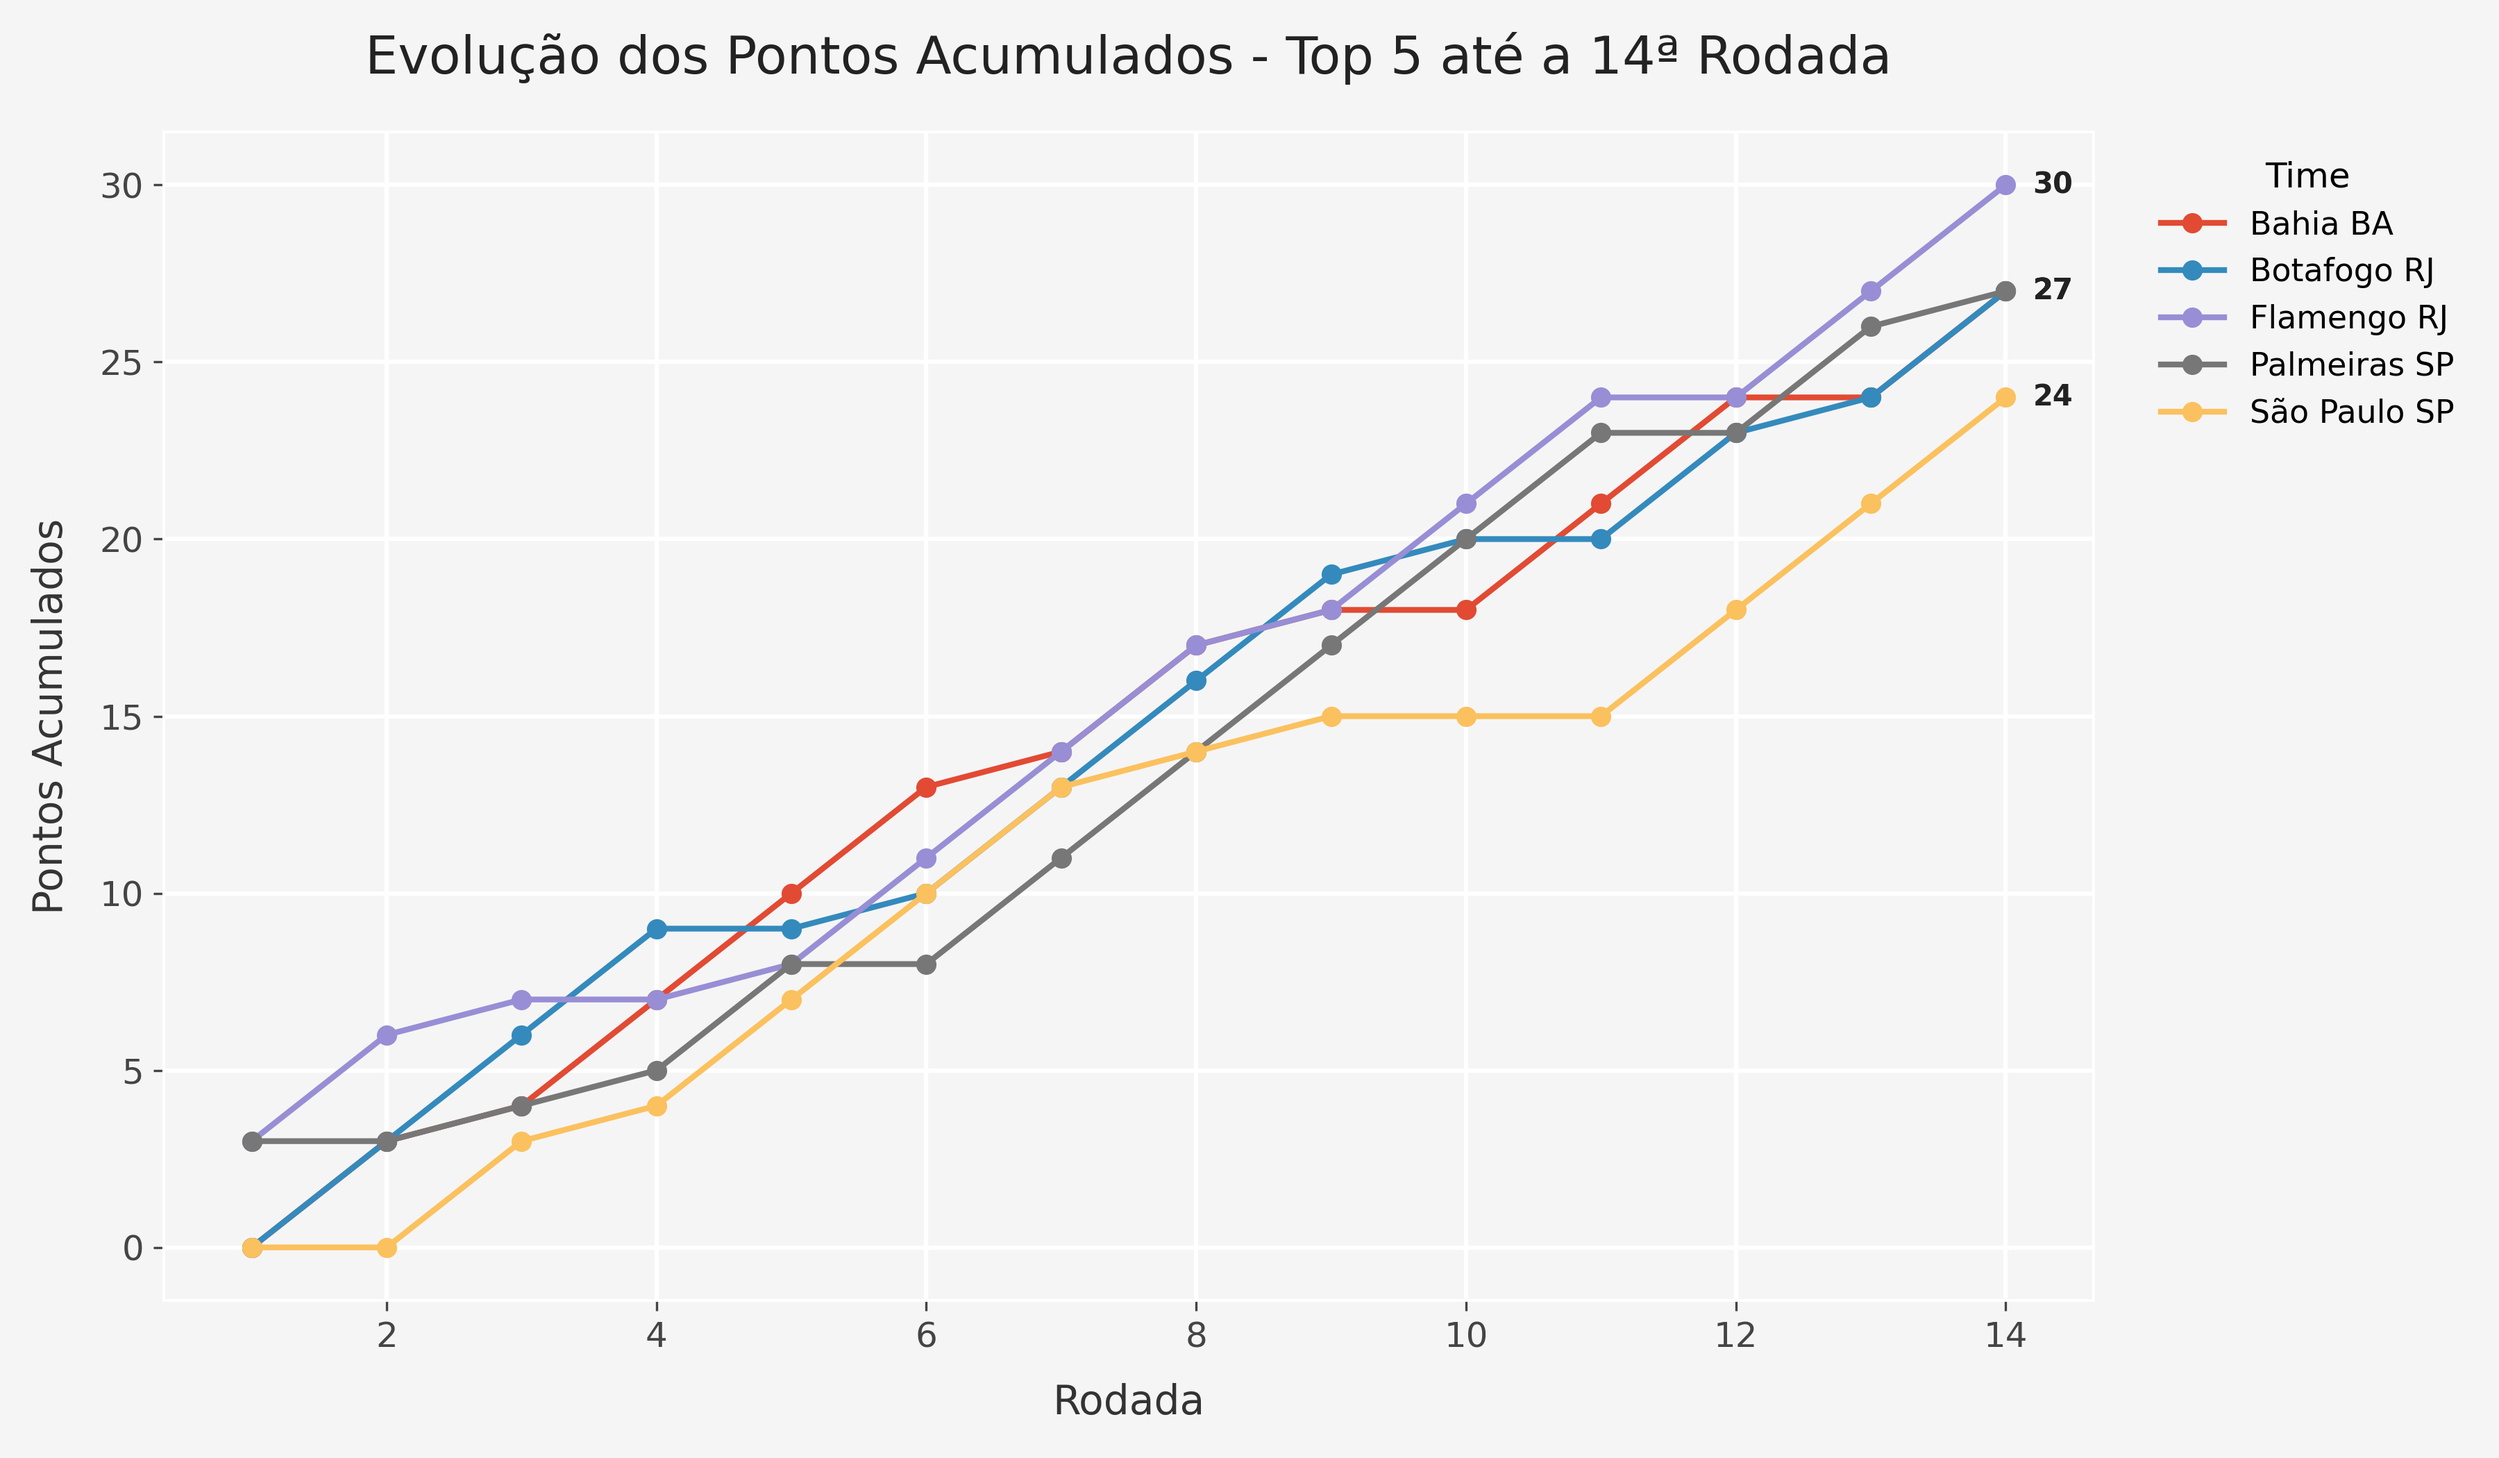
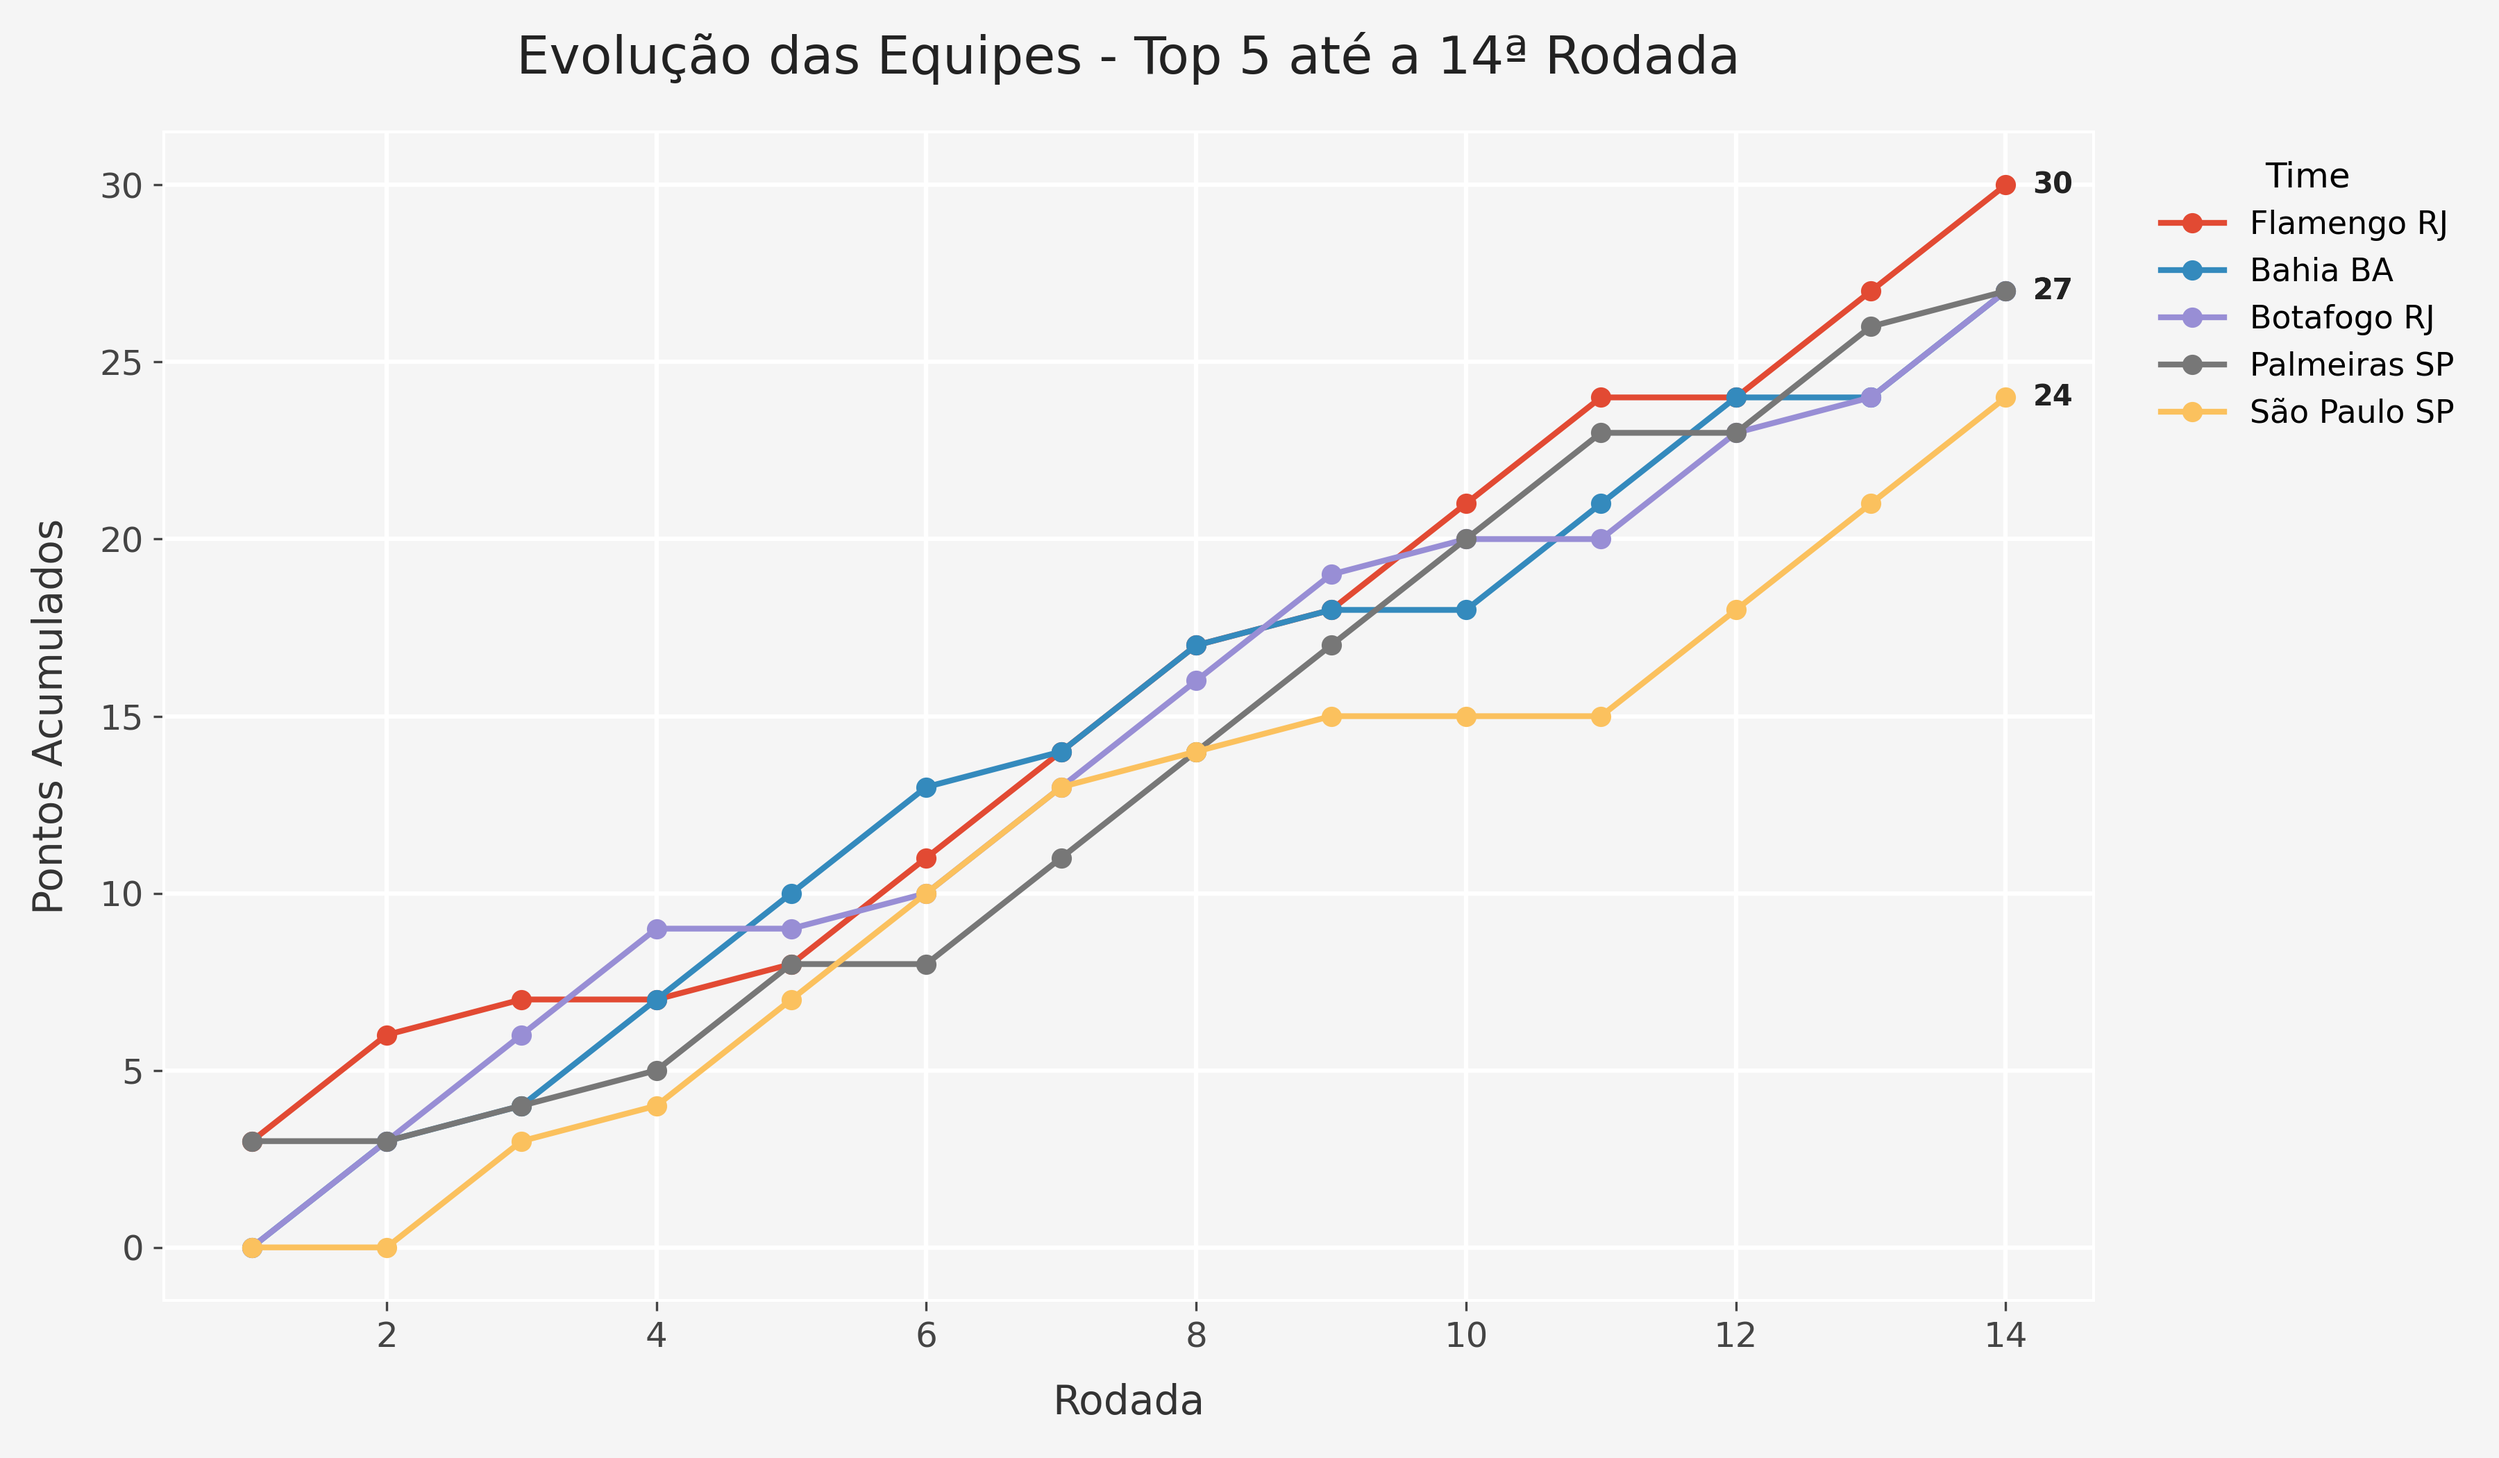
Completo analise para responder a primeira pergunta

diff --git a/ETL/graphs.py b/ETL/graphs.py
@@ -210,17 +210,115 @@ def pred_Winner(df_original, top5):
 
     return summary[['Time', 'PontosTotal', 'MediaPontos', 'PontosPrevistos', 'ProbabilidadeCampeao']]
 
-def plot_previsao(table):
-    plt.figure(figsize=(10, 6))
-    bars = plt.bar(table['Time'], table['PontosPrevistos'], color='dodgerblue')
+# def plot_previsao(table, limiar_campeao=75, jogos=14, total_rodadas=38, output_path="img/previsao_pontuacao.png"):
+#     """
+#     Plota a previsão de pontuação final para o Brasileirão 2024.
 
-    for bar in bars:
-        altura = bar.get_height()
-        plt.text(bar.get_x() + bar.get_width()/2, altura + 0.5, f'{altura:.0f}', 
-                 ha='center', va='bottom', fontsize=9)
-    plt.title('🏆 Previsão de Pontuação Final - Brasileirão 2024')
-    plt.xlabel('Time')
-    plt.ylabel('Pontos Previstos')
-    plt.xticks(rotation=45)
+#     Parâmetros:
+#     - table: DataFrame com colunas ['Time', 'PontosPrevistos', 'MediaPontos']
+#     - limiar_campeao: pontos mínimos para alta probabilidade de título
+#     - jogos: número de rodadas já disputadas
+#     - total_rodadas: total de rodadas no campeonato
+#     - output_path: caminho para salvar o gráfico
+#     """
+#     # Ordena para barras horizontais de baixo (menores) para cima (maiores)
+#     table = table.sort_values("PontosPrevistos", ascending=True)
+
+#     # Normaliza cores entre min e máx previstos
+#     vals = table["PontosPrevistos"]
+#     norm = plt.Normalize(vals.min(), vals.max())
+#     cmap = plt.cm.get_cmap("viridis")
+#     colors = cmap(norm(vals))
+
+#     # Cria figura
+#     fig, ax = plt.subplots(figsize=(10, 6), facecolor="#f0f0f0")
+#     ax.set_facecolor("#f0f0f0")
+
+#     # Barras horizontais
+#     bars = ax.barh(table["Time"], table["PontosPrevistos"], color=colors, edgecolor="#ffffff", height=0.6)
+
+#     # Linha de limiar de campeão
+#     ax.axvline(limiar_campeao, color="crimson", linestyle="--", linewidth=2,
+#                label=f"Limiar Campeão: {limiar_campeao} pts")
+
+#     # Anotações: pontos e média
+#     for bar, m in zip(bars, table["MediaPontos"]):
+#         x = bar.get_width()
+#         y = bar.get_y() + bar.get_height()/2
+#         ax.text(x + 0.5, y,
+#                 f"{int(x)} pts\nMédia/jogo: {m:.2f}",
+#                 va="center", ha="left", fontsize=9, color="#222222")
+
+#     # Títulos e rótulos
+#     ax.set_title("🏆 Previsão de Pontos Finais – Brasileirão 2024", fontsize=16, color="#222222", pad=15)
+#     ax.set_xlabel(f"Pontos Previstos (até {jogos}/{total_rodadas} rodadas)", fontsize=12, color="#444444", labelpad=10)
+#     ax.set_ylabel("Time", fontsize=12, color="#444444", labelpad=10)
+#     ax.tick_params(axis='both', colors="#555555", labelsize=10)
+#     ax.grid(axis="x", color="white", linestyle="-", linewidth=1)
+
+#     # Legenda
+#     ax.legend(frameon=False, fontsize=10, loc="lower right")
+
+#     plt.tight_layout()
+#     os.makedirs(os.path.dirname(output_path) or ".", exist_ok=True)
+#     fig.savefig(output_path, dpi=300, facecolor=fig.get_facecolor())
+#     plt.close(fig)
+def plot_previsao_cores_times(table, limiar_campeao=75, jogos=14, total_rodadas=38, output_path="img/previsao_cores.png"):
+
+    cores_times = {
+        'Flamengo RJ': '#C80000',
+        'Palmeiras SP': '#1C9240',
+        'São Paulo SP': '#DF0A0A',
+        'Botafogo RJ': '#000000',
+        'Grêmio RS': '#0099DA',
+        'Internacional RS': '#ED1B24',
+        'Corinthians SP': '#111111',
+        'Atlético MG': '#222222',
+        'Atlético GO': '#D70000',
+        'Cruzeiro MG': '#0033A0',
+        'Fortaleza CE': '#004AAD',
+        'Fluminense RJ': '#006600',
+        'Bahia BA': '#005CA9',
+        'Cuiabá MT': '#007F3E',
+        'Vasco da Gama RJ': '#231F20',
+        'Red Bull Bragantino SP': '#FFFFFF',
+        'Juventude RS': '#007B3A',
+        'Vitória BA': '#CC0000',
+        'Athletico PR': '#D10000',
+        'Criciúma SC': '#FFD700'
+    }
+
+    table = table.sort_values("PontosPrevistos", ascending=True)
+
+    fig, ax = plt.subplots(figsize=(10, 6), facecolor="#f7f7f7")
+    ax.set_facecolor("#f7f7f7")
+
+    # Aplica a cor do time (ou fallback azul)
+    cores = [cores_times.get(time, 'steelblue') for time in table["Time"]]
+
+    bars = ax.barh(table["Time"], table["PontosPrevistos"], color=cores, edgecolor="white", height=0.6)
+
+    # Linha de limiar para título
+    ax.axvline(limiar_campeao, color="crimson", linestyle="--", linewidth=2,
+               label=f"Limiar Campeão: {limiar_campeao} pts")
+
+    # Anotações
+    for bar, media in zip(bars, table["MediaPontos"]):
+        x = bar.get_width()
+        y = bar.get_y() + bar.get_height() / 2
+        ax.text(x + 0.8, y,
+                f"{int(x)} pts\n{media:.2f}/jogo",
+                va="center", ha="left", fontsize=9, color="#222")
+
+    ax.set_title("🎯 Previsão Final do Brasileirão 2024", fontsize=16, color="#111", pad=15)
+    ax.set_xlabel(f"Pontos Previstos (após {jogos}/{total_rodadas} rodadas)", fontsize=12)
+    ax.set_ylabel("Time", fontsize=12)
+    ax.tick_params(axis='both', labelsize=10, colors="#333")
+    ax.grid(axis="x", linestyle="--", linewidth=0.5, color="#cccccc")
+
+    ax.legend(loc="lower right", fontsize=10, frameon=False)
+
     plt.tight_layout()
-    plt.savefig('img/previsao_pontuacao.png', dpi=300)
+    os.makedirs(os.path.dirname(output_path) or ".", exist_ok=True)
+    fig.savefig(output_path, dpi=300, facecolor=fig.get_facecolor())
+    plt.close(fig)

diff --git a/ETL/analyze_brasileirao2024.py b/ETL/analyze_brasileirao2024.py
@@ -2,7 +2,7 @@ import pandas as pd
 import matplotlib.pyplot as plt
 import os
 import numpy as np
-from graphs import better_team, top5_filtered, pred_Winner, plot_previsao
+from graphs import better_team, top5_filtered, pred_Winner, plot_previsao_cores_times
 from line_graph import plot_evolucao_top5
 
 # Caminho para o arquivo Excel
@@ -12,14 +12,24 @@ df = pd.read_excel(path_excel, sheet_name="Rodadas-2024")
 # df_classificacao = pd.read_excel(path_excel, sheet_name="Classificação")
 # df = all_able["Rodadas-2024"]
 # df_classificacao = all_able["Classificação"]
-# top5_df = better_team(df)
-# forecast = pred_Winner(df, top5_df)
+top5_df = better_team(df)
+forecast = pred_Winner(df, top5_df)
 # plot_previsao(forecast)
 # Exemplo de uso em main
 
     # Ajuste o caminho conforme seu diretório de projeto
-plot_evolucao_top5(path_excel)
-print(f"✅ Gráfico salvo em {os.path.abspath('img/indicadores_top5_linha.png')}")
+# plot_evolucao_top5(path_excel)
+# print(f"✅ Gráfico salvo em {os.path.abspath('img/indicadores_top5_linha.png')}")
+
+graf_data = forecast[['Time','PontosPrevistos','MediaPontos']]
+
+plot_previsao_cores_times(
+    table=forecast[['Time', 'PontosPrevistos', 'MediaPontos']],
+    limiar_campeao=75,
+    jogos=14,
+    total_rodadas=38,
+    output_path="img/previsao_cores.png"
+)
 
 # top5 = better_team(df)
 

diff --git a/ETL/line_graph.py b/ETL/line_graph.py
@@ -50,6 +50,9 @@ def plot_evolucao_top5(filepath: str, sheet_name: str = "Rodadas-2024", limite_r
 
     # Pivot para gráfico
     pivot = pont.pivot(index='ROD_NUM', columns='Time', values='PontosAcumulados').fillna(method='ffill').fillna(0)
+    final_vals = pivot.iloc[-1].sort_values(ascending=False)
+    pivot = pivot[final_vals.index]
+
 
     # Garante pasta de saída
     os.makedirs(os.path.dirname(output_path), exist_ok=True)
@@ -74,7 +77,7 @@ def plot_evolucao_top5(filepath: str, sheet_name: str = "Rodadas-2024", limite_r
     # Customiza aparência
     ax.set_facecolor('#f5f5f5')
     ax.grid(color='white', linestyle='-', linewidth=1.5)
-    ax.set_title(f"Evolução dos Pontos Acumulados - Top 5 até a {limite_rodada}ª Rodada", fontsize=18, color='#222222', pad=20)
+    ax.set_title(f"Evolução das Equipes - Top 5 até a {limite_rodada}ª Rodada", fontsize=18, color='#222222', pad=20)
     ax.set_xlabel("Rodada", fontsize=14, color='#333333', labelpad=10)
     ax.set_ylabel("Pontos Acumulados", fontsize=14, color='#333333', labelpad=10)
     ax.tick_params(axis='x', colors='#444444', labelsize=12)
